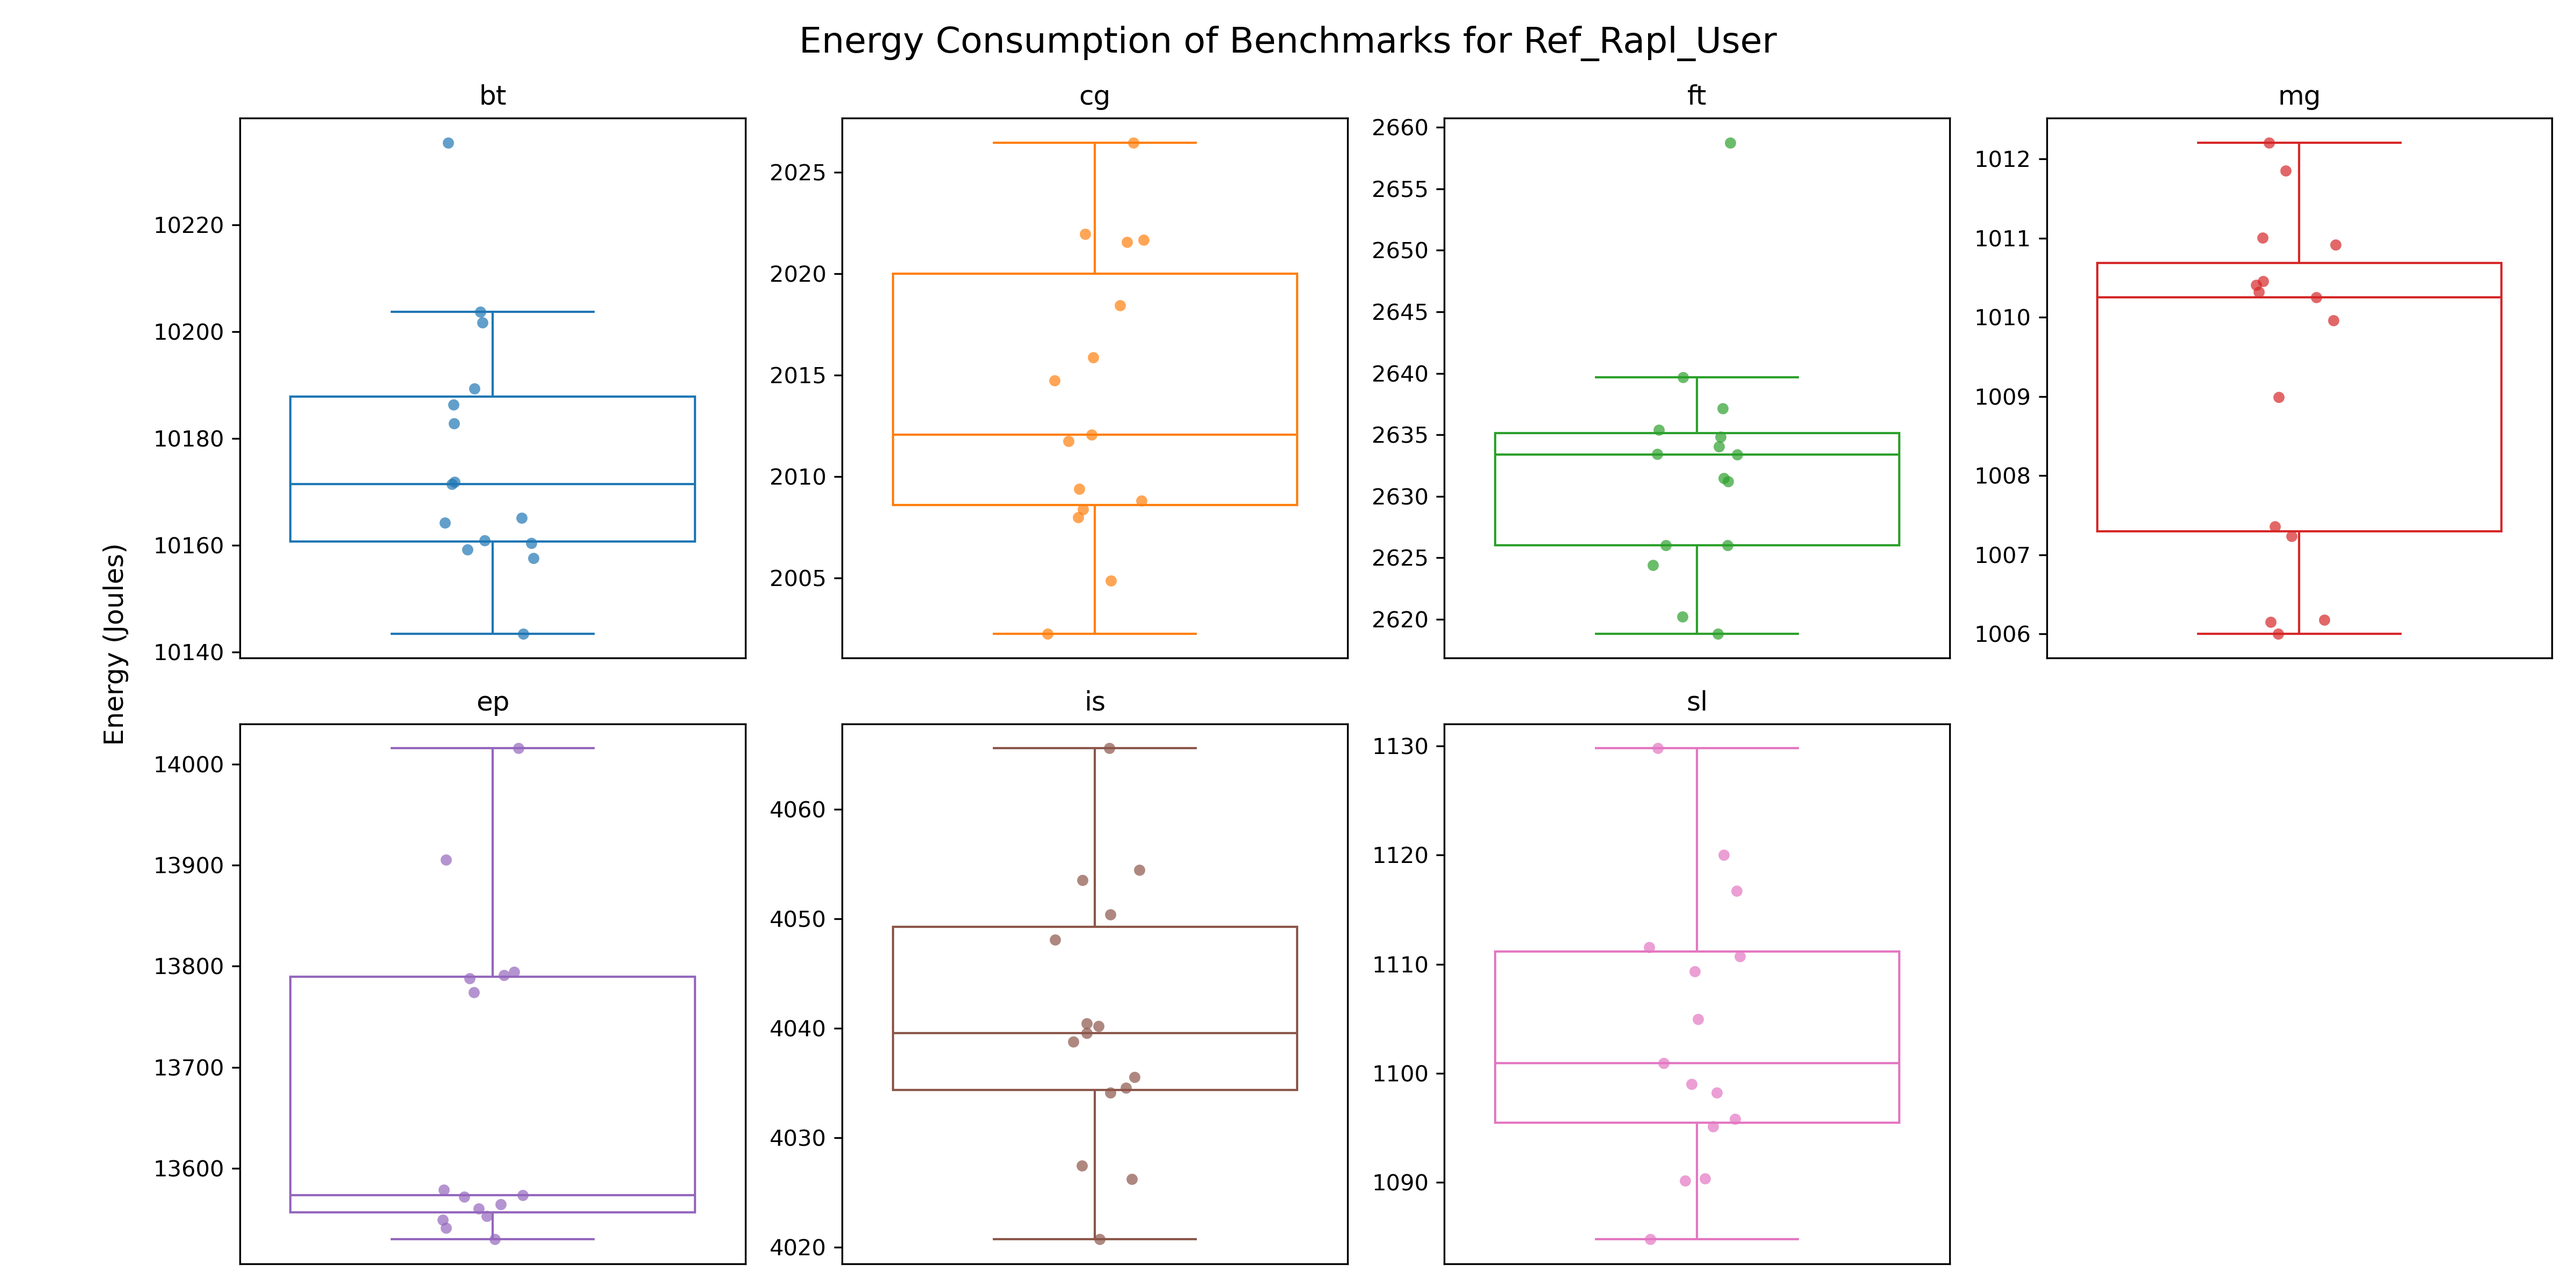
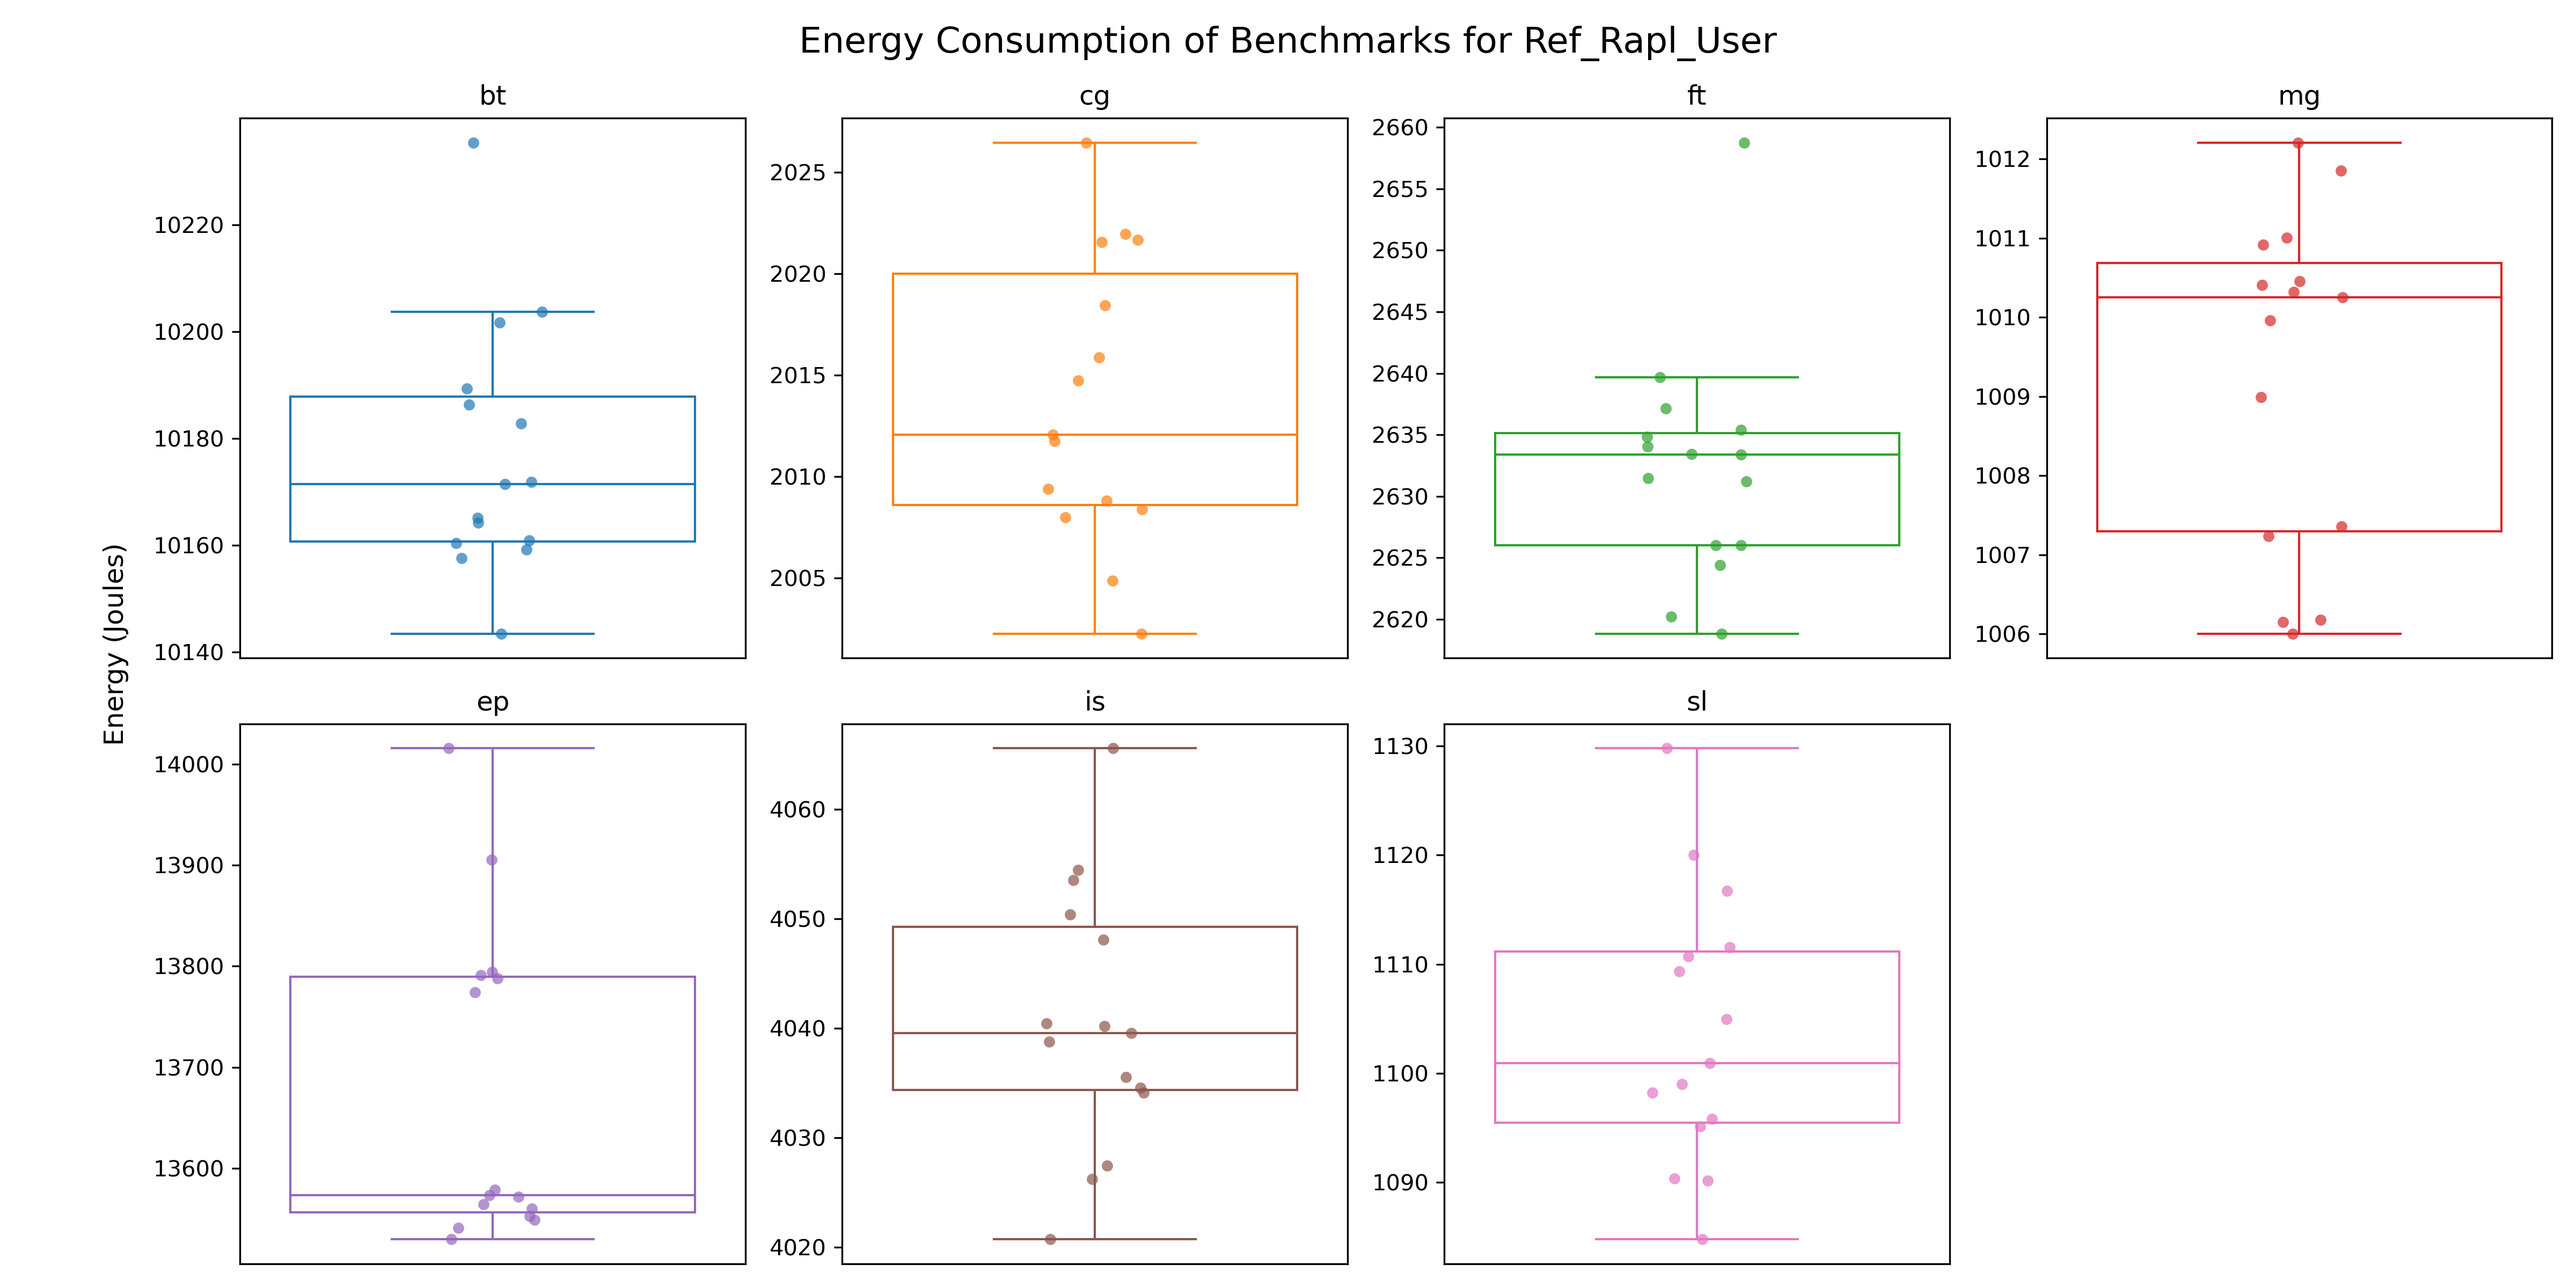
fixed order of plots

diff --git a/calcs.py b/calcs.py
@@ -680,8 +680,6 @@ df_filtered = df_cleaned[
     (df_cleaned['benchmark'] != 'mi') 
     ]
 
-benchmarks = benchmarks1
-
 fig, axes = plt.subplots(2, 4, figsize=(16, 8))
 fig.suptitle('Energy Consumption of Benchmarks for Ref_Rapl_Kern', fontsize=16)
 axes = axes.flatten()
@@ -689,7 +687,7 @@ axes = axes.flatten()
 # Pick 7 distinct colors
 palette = sns.color_palette("tab10")[:7]
 
-for i, (benchmark, color) in enumerate(zip(benchmarks, palette)):
+for i, (benchmark, color) in enumerate(zip(benchmarks1, palette)):
     ax = axes[i]
     data = df_filtered[df_filtered['benchmark'] == benchmark]
     
@@ -741,8 +739,6 @@ df_filtered = df_cleaned[
     (df_cleaned['benchmark'] != 'mi') 
     ]
 
-benchmarks = benchmarks1
-
 fig, axes = plt.subplots(2, 4, figsize=(16, 8))
 fig.suptitle('Energy Consumption of Benchmarks for Ref_Rapl_User', fontsize=16)
 axes = axes.flatten()
@@ -750,7 +746,7 @@ axes = axes.flatten()
 # Pick 7 distinct colors
 palette = sns.color_palette("tab10")[:7]
 
-for i, (benchmark, color) in enumerate(zip(benchmarks, palette)):
+for i, (benchmark, color) in enumerate(zip(benchmarks1, palette)):
     ax = axes[i]
     data = df_filtered[df_filtered['benchmark'] == benchmark]
     
